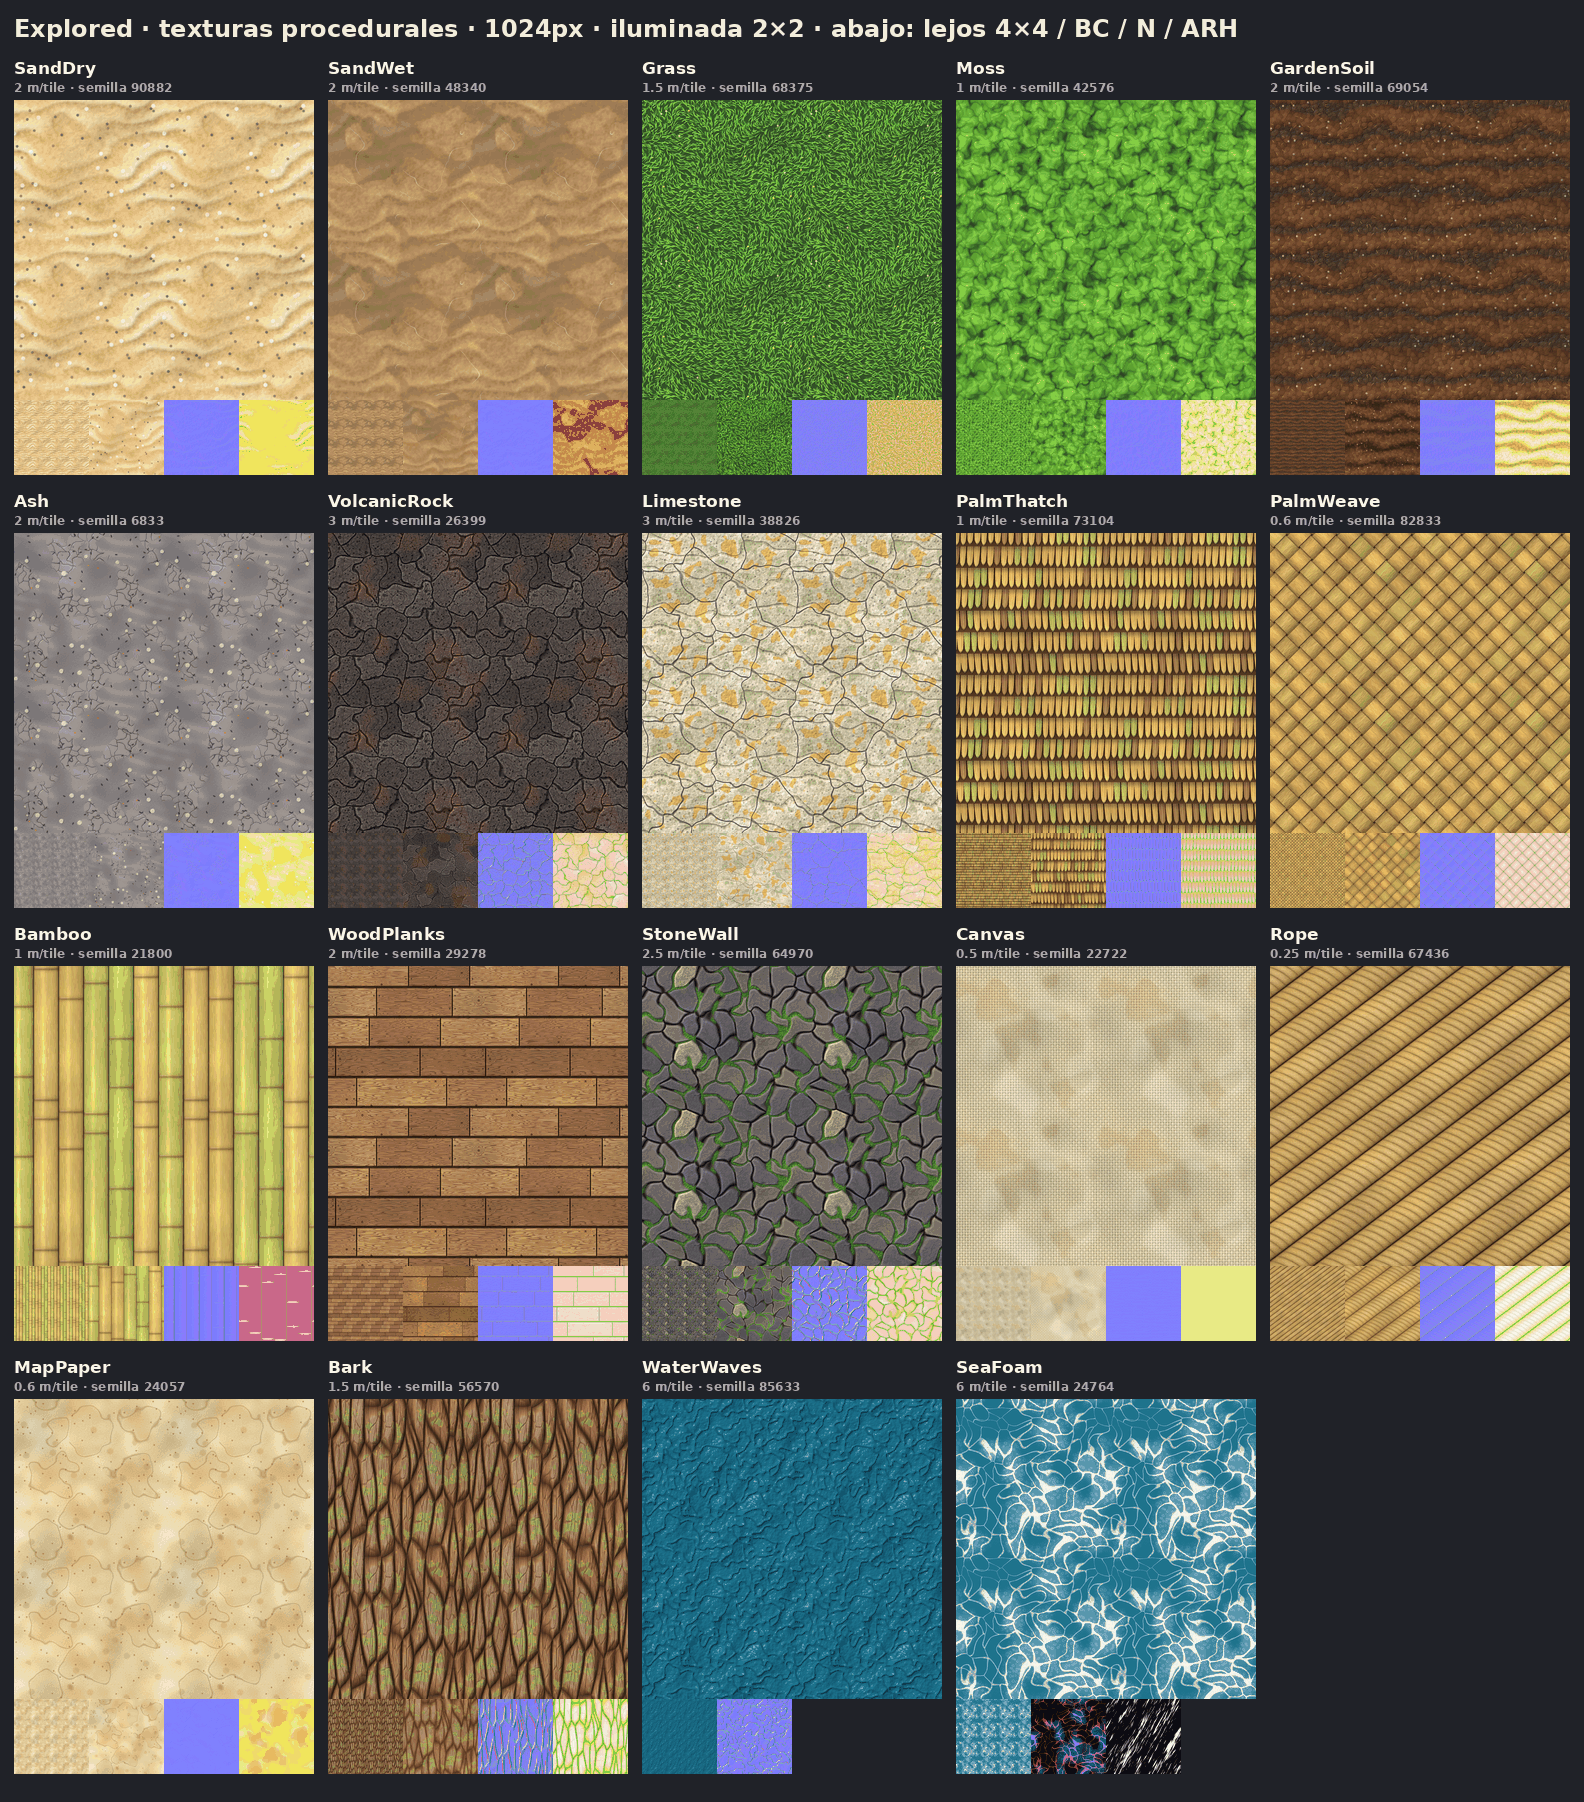
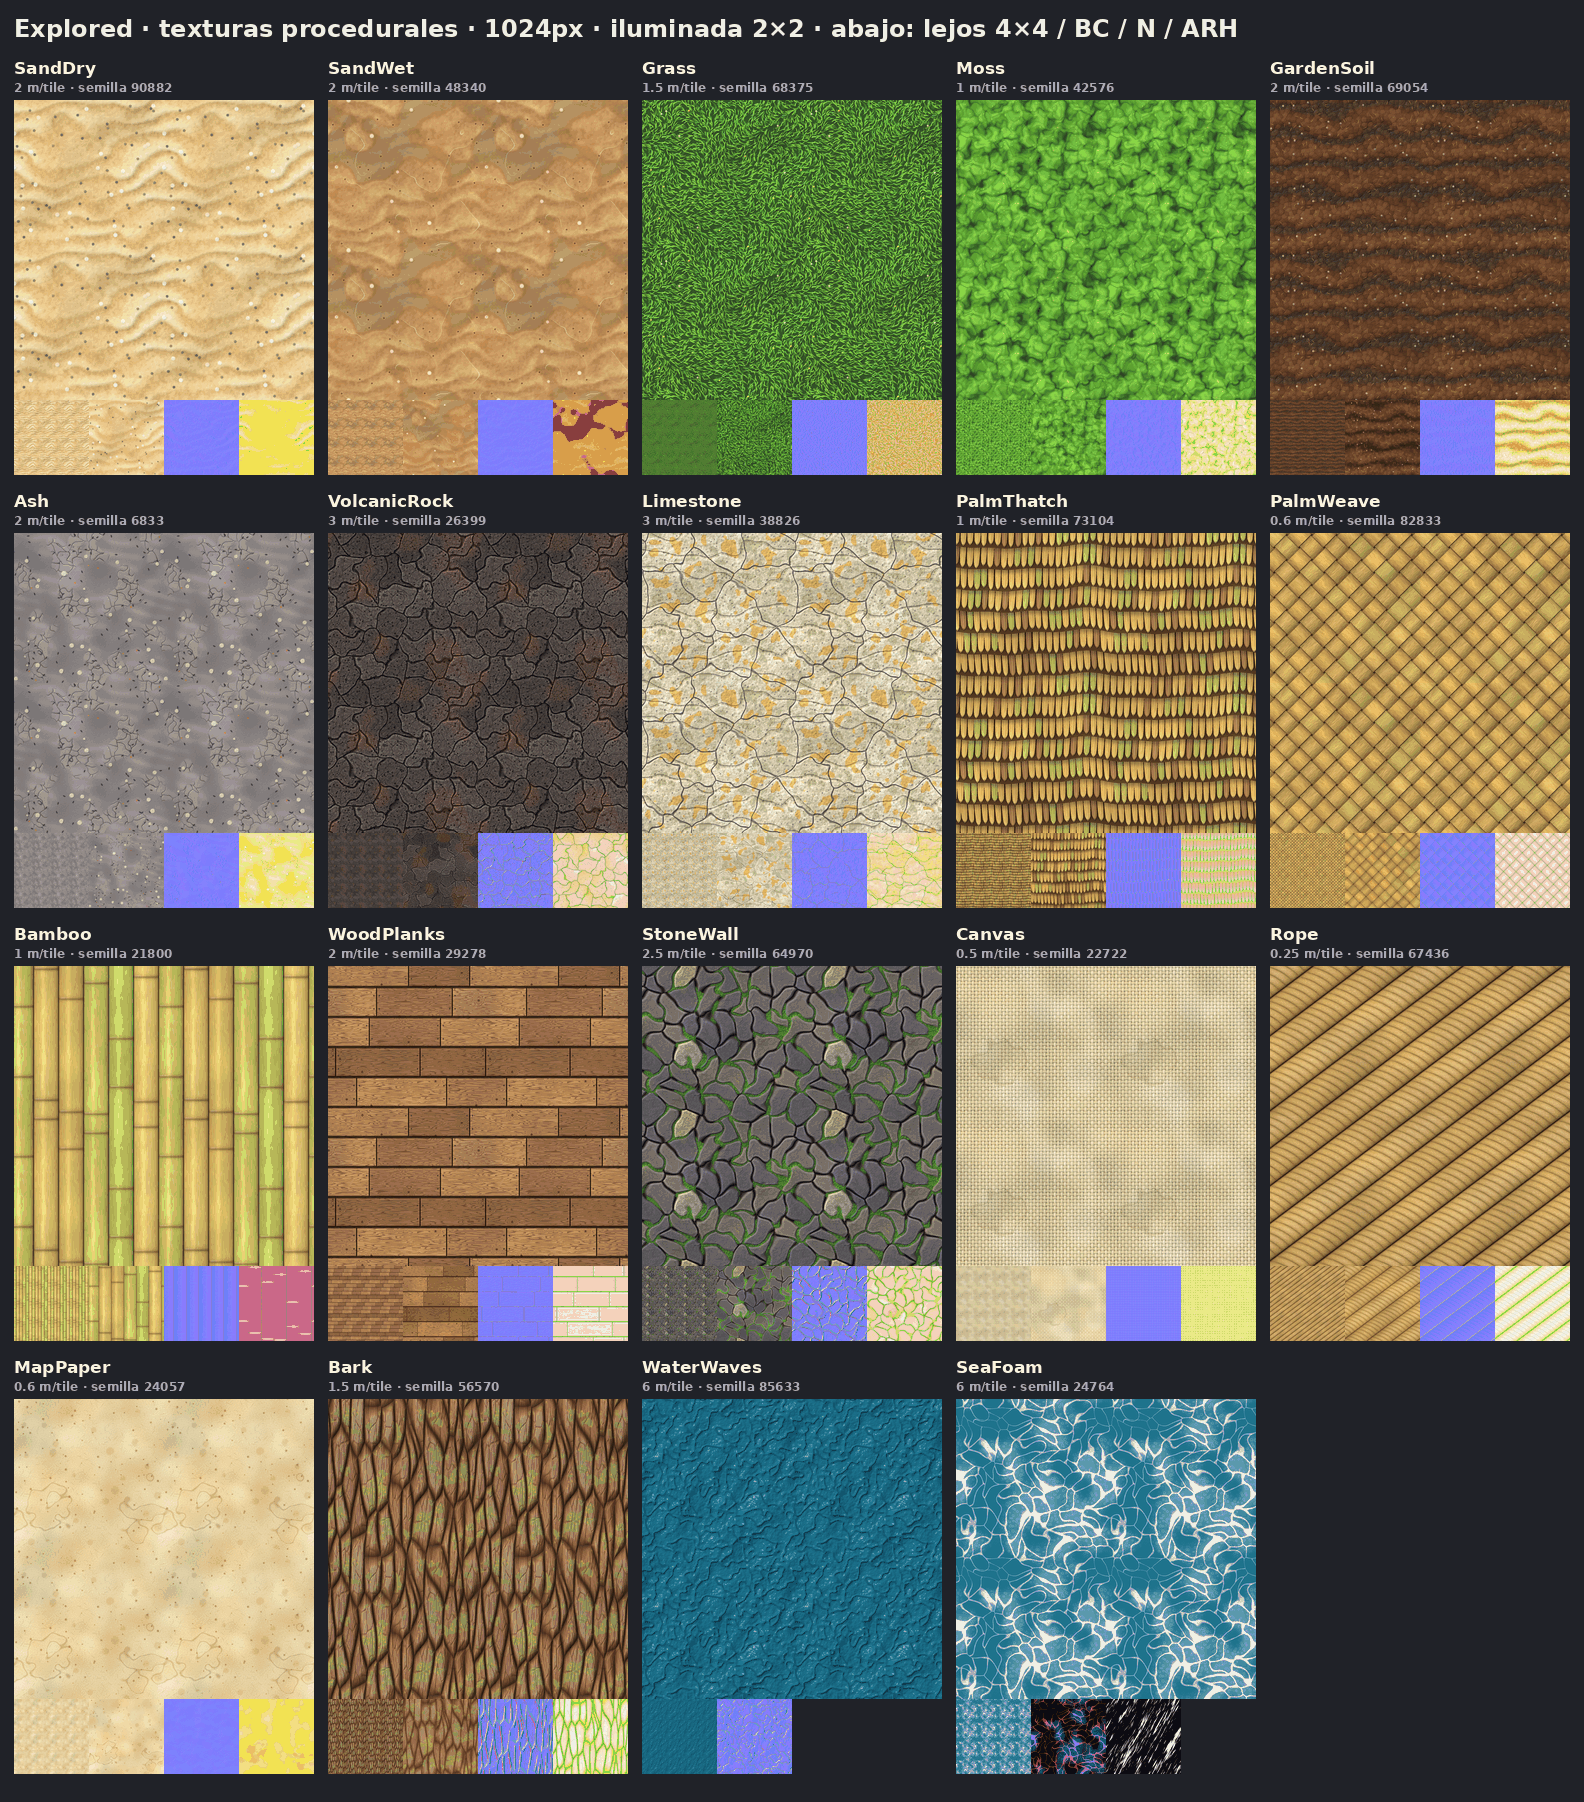
docs(arte): hoja de contacto y catálogo actualizados
Claude-Session: https://claude.ai/code/session_01T6xcS9hUQxR4uNjvWweUxS

diff --git a/docs/art/texturas.md b/docs/art/texturas.md
@@ -44,21 +44,21 @@ que no hay que tocar `import_textures.py` al añadir materiales.
 | Material | Tile | Uso y notas |
 |---|---|---|
 | `SandDry` | 2 m | Arena seca de playa/dunas: rizos eólicos asimétricos, granos, conchas y guijarros. |
-| `SandWet` | 2 m | Franja de orilla: más oscura, rizos suaves, charcos brillantes (rugosidad ~0.15), marcas de resaca. |
+| `SandWet` | 2 m | Franja de orilla: caramelo saturado (no gris), rizos lavados, arena empapada alrededor de láminas de agua brillantes (rugosidad ~0.2, tinte leve de cielo), marcas de resaca con banda escurrida detrás, agujeritos de cangrejo y alguna concha. |
 | `Grass` | 1.5 m | Césped cartoon: 7 capas de hojas afiladas que siguen un flujo suave + florecillas. |
 | `Moss` | 1 m | Musgo en cojines (ruinas, rocas, suelo de selva). |
 | `GardenSoil` | 2 m | Tierra de huerto labrada: surcos en el eje u, terrones, paja, surcos más húmedos. |
 | `Ash` | 2 m | Ceniza del Humo: dunas suaves con rizos de viento, costra cuarteada por zonas, pómez, carbones y alguna brasa. |
 | `VolcanicRock` | 3 m | Basalto en losas facetadas (low-poly), vesículas, óxido, aristas realzadas. |
 | `Limestone` | 3 m | Caliza estratificada clara con poros y líquenes naranja/salvia. |
-| `PalmThatch` | 1 m | Techo de hojas de palma en hileras solapadas; **v = pendiente abajo**. |
+| `PalmThatch` | 1 m | Techo de hojas de palma en hileras solapadas cuyo borde ondula suavemente (atado a mano, no a regla); **v = pendiente abajo**. |
 | `PalmWeave` | 0.6 m | Estera de palma trenzada en diagonal (paredes, techos interiores, cestos). |
 | `Bamboo` | 1 m | Cañas juntas con nudos; **v = a lo largo de la caña**; brillo (rugosidad ~0.4). |
 | `WoodPlanks` | 2 m | Tablones con juntas escalonadas, nudos y clavos; **u = a lo largo de la tabla**. |
 | `StoneWall` | 2.5 m | Muro polinesio de piedra seca: basalto encajado con caras planas (low-poly), algún bloque de coral poroso, musgo en juntas y en la mitad baja de cada piedra. |
-| `Canvas` | 0.5 m | Lona de vela/toldo (tafetán) con manchas y zonas descoloridas. |
+| `Canvas` | 0.5 m | Lona de vela/toldo: tafetán de 44 hilos/tile con matiz por hilo, zonas descoloridas por el sol y pocas manchas de sal con cerco fino. |
 | `Rope` | 0.25 m | Cuerda de 3 cabos redondos con hilos en torsión contraria (arcos en «S»): **u = alrededor, v = a lo largo** (UV de cilindro). |
-| `MapPaper` | 0.6 m | Papel del mapa: fibras, manchas de agua con cerco, foxing. |
+| `MapPaper` | 0.6 m | Papel del mapa: fibras cortas y largas, pulpa, ondulación, pocas manchas de agua de borde irregular con cerco, foxing de tamaño variable. |
 | `Bark` | 1.5 m | Corteza de placas alargadas (4:1) con fisuras en V, grietas finas, crestas curtidas y liquen; **v = a lo largo**. |
 | `WaterWaves` | 6 m | Solo `_N`: oleaje fino con dirección de viento y crestas algo afiladas. |
 | `SeaFoam` | 6 m | Solo `_M`: R encaje de espuma, G burbujas, B masa suave, A estelas. |
@@ -137,7 +137,9 @@ orilla y `f.g` (burbujas) / `f.a` (estelas) para detalle en crestas.
    inclinado por celda para caras planas tipo low-poly. Define todo en coordenadas de tile y
    no pongas juntas estructurales justo en el borde (usa una fase fraccionaria).
 2. Regístralo en `MATERIALS` con su tamaño de tile y uso.
-3. `pytest` comprueba tileado, rangos, determinismo y que la variación macro del albedo
+3. `pytest` comprueba tileado, rangos, determinismo, el contrato de nombres con
+   `build_materials.py` (`tests/test_contract.py`: toda `T_*` que cargue un material debe
+   salir del generador) y que la variación macro del albedo
    esté en rango (`tests/test_macro.py`: ni plano a lo lejos ni manchas que dominen el
    tile); genera la hoja de contacto y **mírala** (sobre todo la miniatura 4×4) antes de
    darlo por bueno.
